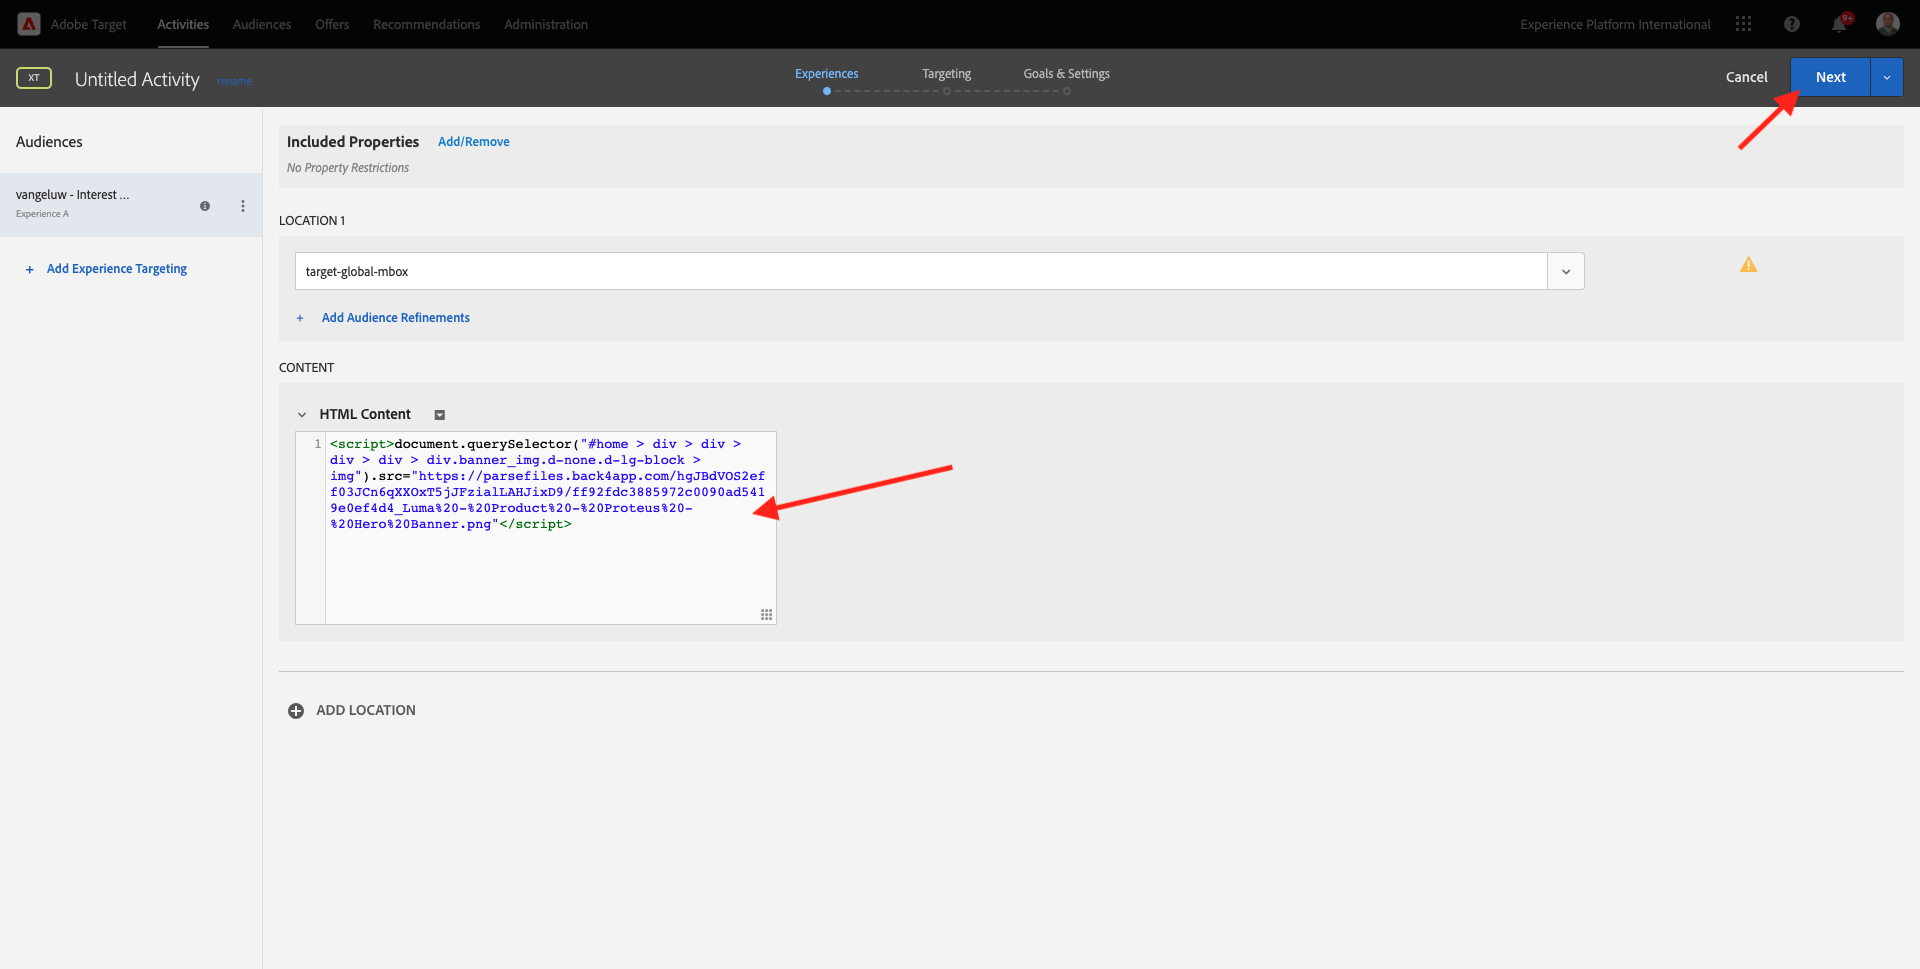
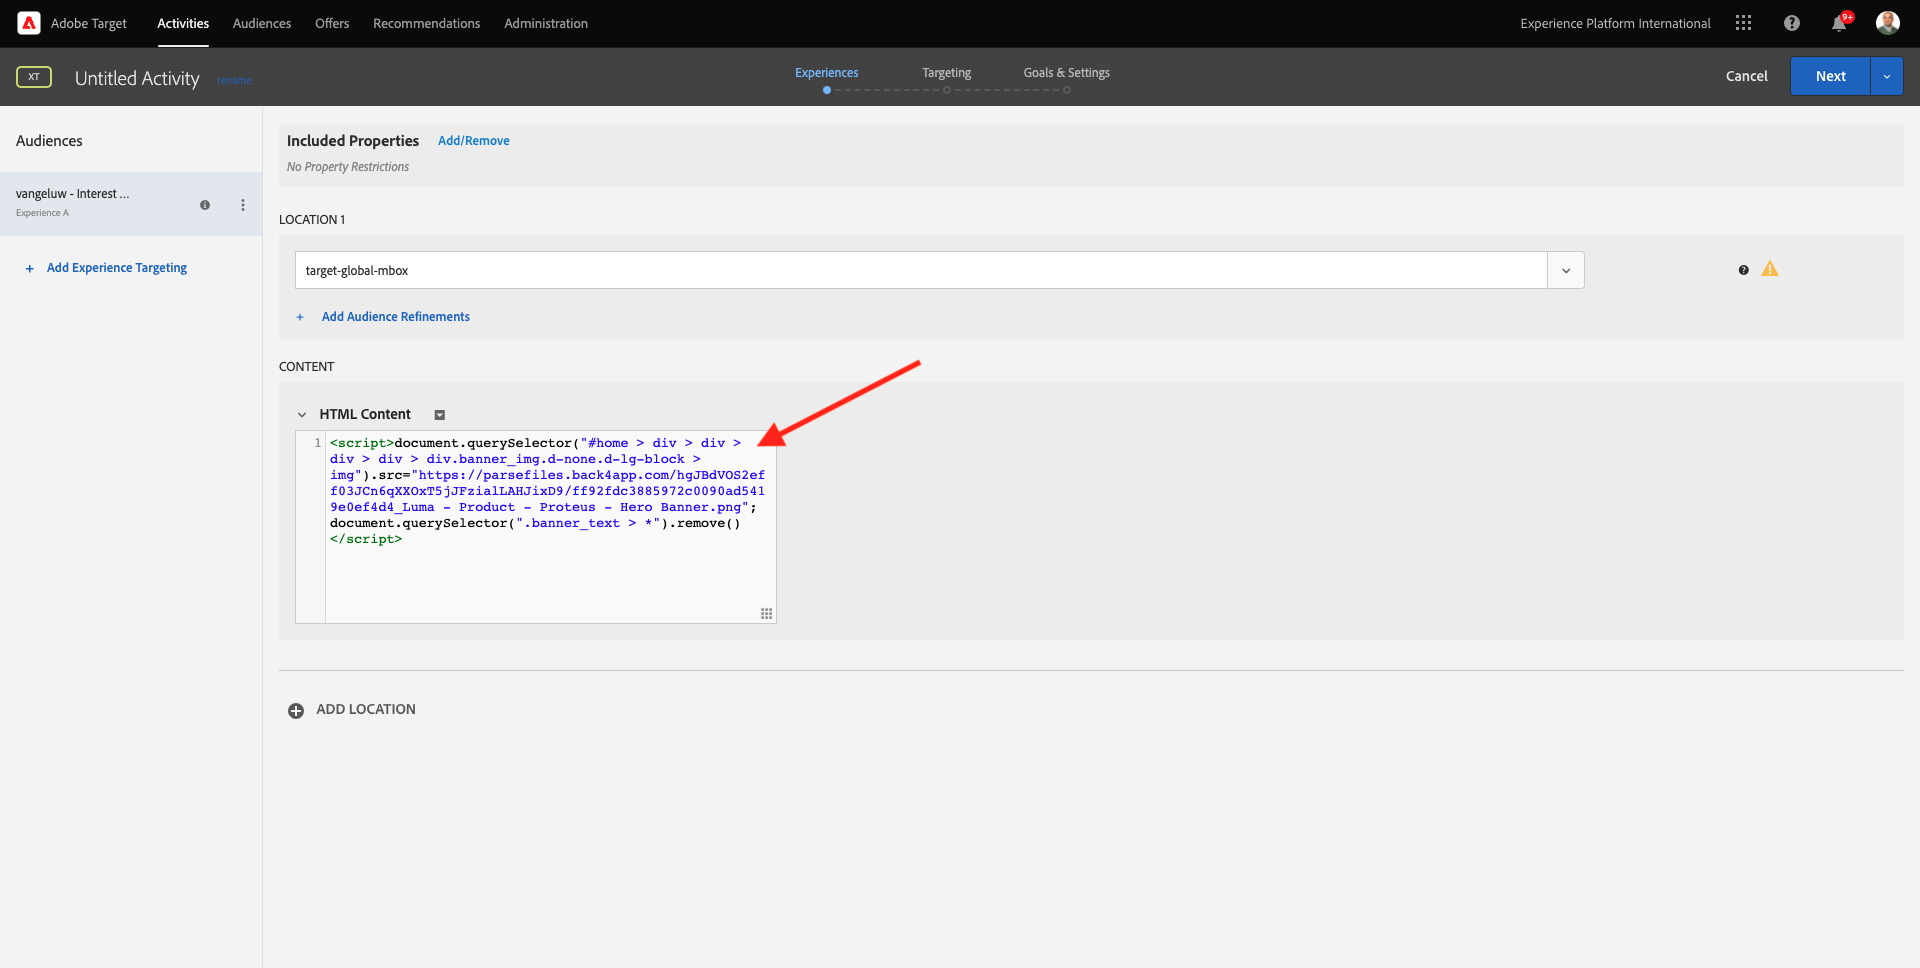
update module 6

diff --git a/help/tutorial-comprehensive-technical-v22/modules/module6/ex6.md b/help/tutorial-comprehensive-technical-v22/modules/module6/ex6.md
@@ -1,17 +1,33 @@
 ---
-title: Real-time CDP - Data Landing Zone
-description: Real-time CDP - Data Landing Zone
+title: Real-time CDP - External Audiences
+description: Real-time CDP - External Audiences
 kt: 5342
 audience: Data Architect, Orchestration Engineer, Marketer
 doc-type: tutorial
 activity: develop
-exl-id: 9ce1aaf9-d321-4d57-8879-ef5a5db14f15
+exl-id: 38489c2b-69d4-4ddc-9a75-84bd54b4c823
 ---
-# 6.6 Segment Match
+# 6.6 External Audiences
+
+## 6.6.1 Metadata
+
+Go to [Adobe Experience Platform](https://experience.adobe.com/platform). After logging in, you'll land on the homepage of Adobe Experience Platform.
+
+![Data Ingestion](../module2/images/home.png)
+
+Before you continue, you need to select a **sandbox**. The sandbox to select is named ``--aepSandboxId--``. You can do this by clicking the text **[!UICONTROL Production Prod]** in the blue line on top of your screen. After selecting the appropriate [!UICONTROL sandbox], you'll see the screen change and now you're in your dedicated [!UICONTROL sandbox].
+
+![Data Ingestion](../module2/images/sb1.png)
+
+## 6.6.2 Segment Membership
 
 This content is under construction.
 
-Next Step: [6.7 External Audiences](./ex7.md)
+## 6.6.3 Profile/Segment
+
+This content is under construction.
+
+Next Step: [6.7 Destinations SDK](./ex7.md)
 
 [Go Back to Module 6](./real-time-cdp-build-a-segment-take-action.md)
 

diff --git a/help/tutorial-comprehensive-technical-v22/TOC.md b/help/tutorial-comprehensive-technical-v22/TOC.md
@@ -73,9 +73,8 @@ doc-type: multipage
   + [6.3 Take Action: send your segment to DV360](/help/tutorial-comprehensive-technical-v22/modules/module6/ex3.md)
   + [6.4 Take Action: send your segment to an S3-destination](/help/tutorial-comprehensive-technical-v22/modules/module6/ex4.md)
   + [6.5 Take Action: send your segment to Adobe Target](/help/tutorial-comprehensive-technical-v22/modules/module6/ex5.md)
-  + [6.6 Segment Match](/help/tutorial-comprehensive-technical-v22/modules/module6/ex6.md)
-  + [6.7 External Audiences](/help/tutorial-comprehensive-technical-v22/modules/module6/ex7.md)
-  + [6.8 Destinations SDK](/help/tutorial-comprehensive-technical-v22/modules/module6/ex8.md)
+  + [6.6 External Audiences](/help/tutorial-comprehensive-technical-v22/modules/module6/ex6.md)
+  + [6.7 Destinations SDK](/help/tutorial-comprehensive-technical-v22/modules/module6/ex7.md)
   + [Summary and benefits](/help/tutorial-comprehensive-technical-v22/modules/module6/summary.md)
 + 7 - Adobe Journey Optimizer: Orchestration {#module7}
   + [Overview](/help/tutorial-comprehensive-technical-v22/modules/module7/journey-orchestration-create-account.md)

diff --git a/help/tutorial-comprehensive-technical-v22/modules/module6/ex5.md b/help/tutorial-comprehensive-technical-v22/modules/module6/ex5.md
@@ -149,7 +149,7 @@ Let's now change the Hero Image on the homepage of the website. Click to open th
 Paste the following code. Then, click **Next**.
 
 ```javascript
-<script>document.querySelector("#home > div > div > div > div > div.banner_img.d-none.d-lg-block > img").src="https://parsefiles.back4app.com/hgJBdVOS2eff03JCn6qXXOxT5jJFzialLAHJixD9/ff92fdc3885972c0090ad5419e0ef4d4_Luma%20-%20Product%20-%20Proteus%20-%20Hero%20Banner.png"</script>
+<script>document.querySelector("#home > div > div > div > div > div.banner_img.d-none.d-lg-block > img").src="https://parsefiles.back4app.com/hgJBdVOS2eff03JCn6qXXOxT5jJFzialLAHJixD9/ff92fdc3885972c0090ad5419e0ef4d4_Luma - Product - Proteus - Hero Banner.png"; document.querySelector(".banner_text > *").remove()</script>
 ```
 
 ![RTCDP](./images/atform6.png)
@@ -206,7 +206,7 @@ If you now go back to your demo website and visit the product page for PROTEUS F
 
 ![RTCDP](./images/atform13.png)
 
-Next Step: [6.6 Segment Match](./ex6.md)
+Next Step: [6.6 External Audiences](./ex6.md)
 
 [Go Back to Module 6](./real-time-cdp-build-a-segment-take-action.md)
 

diff --git a/help/tutorial-comprehensive-technical-v22/modules/module6/ex7.md b/help/tutorial-comprehensive-technical-v22/modules/module6/ex7.md
@@ -1,15 +1,13 @@
 ---
-title: Real-time CDP - External Audiences
-description: Real-time CDP - External Audiences
+title: Real-time CDP - Destinations SDK
+description: Real-time CDP - Destinations SDK
 kt: 5342
 audience: Data Architect, Orchestration Engineer, Marketer
 doc-type: tutorial
 activity: develop
-exl-id: 38489c2b-69d4-4ddc-9a75-84bd54b4c823
+exl-id: 9585f858-569b-421e-a21d-aa623cd6c819
 ---
-# 6.7 External Audiences
-
-## 6.7.1 Metadata
+# 6.7 Destinations SDK
 
 Go to [Adobe Experience Platform](https://experience.adobe.com/platform). After logging in, you'll land on the homepage of Adobe Experience Platform.
 
@@ -19,15 +17,9 @@ Before you continue, you need to select a **sandbox**. The sandbox to select is 
 
 ![Data Ingestion](../module2/images/sb1.png)
 
-## 6.7.2 Segment Membership
-
 This content is under construction.
 
-## 6.7.3 Profile/Segment
-
-This content is under construction.
-
-Next Step: [6.8 Destinations SDK](./ex8.md)
+Next Step: [Summary and benefits](./summary.md)
 
 [Go Back to Module 6](./real-time-cdp-build-a-segment-take-action.md)
 

diff --git a/help/tutorial-comprehensive-technical-v22/modules/module6/real-time-cdp-build-a-segment-take-action.md b/help/tutorial-comprehensive-technical-v22/modules/module6/real-time-cdp-build-a-segment-take-action.md
@@ -66,15 +66,11 @@ Use the segment you built in exercise 6.1 and send it to an S3-destination, typi
 
 Use the segment you built in exercise 6.1 to configure an Experience Targeting Activity in Adobe Target.
 
-[6.6 Segment Match](./ex6.md)
-
-Configure and use Segment Match to exchange segments between sandboxes and/or Adobe Experience Platform instances.
-
-[6.7 External Audiences](./ex7.md)
+[6.6 External Audiences](./ex6.md)
 
 Import audiences from an external source system into Adobe Experience Platform.
 
-[6.8 Destinations SDK](./ex8.md)
+[6.7 Destinations SDK](./ex7.md)
 
 Configure your own destination using Destinations SDK.
 
